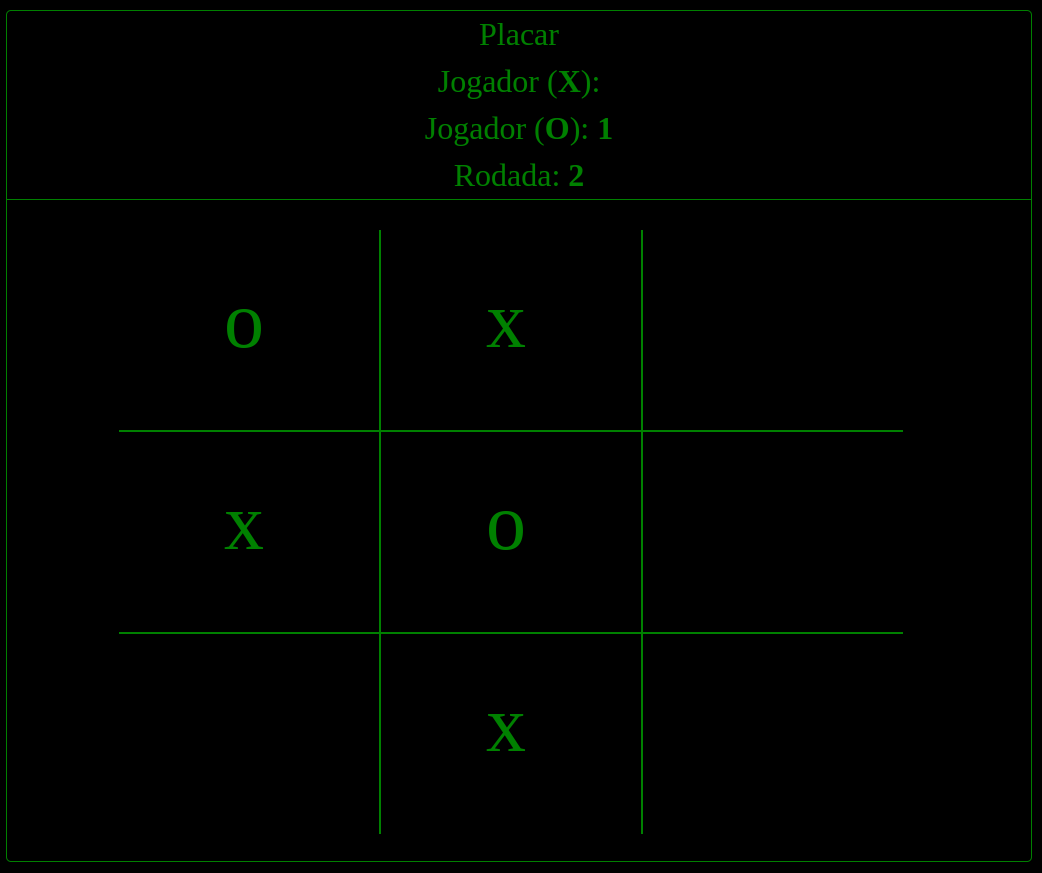
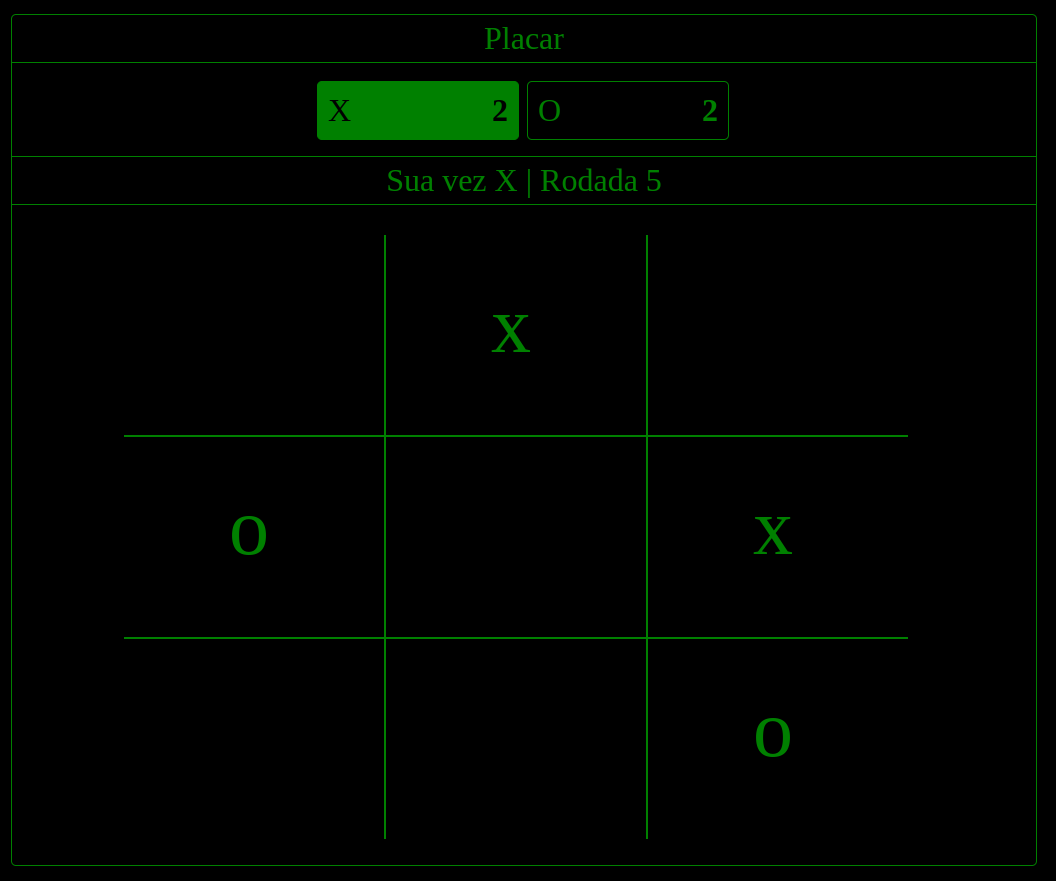
Layout and game improvements.

diff --git a/src/js/jogo-da-velha-tela.js b/src/js/jogo-da-velha-tela.js
@@ -1,25 +1,29 @@
 (function () {
   const jogoDaVelha = new JogoDaVelha();
-  const jogada = document.querySelectorAll('[id*=jogada-]');
-  const jogador = document.querySelectorAll('[id*=jogador-]');
-  const rodada = document.querySelector('[id=rodada]');
-  rodada.textContent = jogoDaVelha.obterRodada();
+  const jogada = document.querySelectorAll("[id*=jogada-]");
+  const jogador = document.querySelectorAll("[id*=jogador-]");
+  const rodada = document.querySelector("[id=rodada]");
+  const jogando = document.querySelector("[id=jogando");
+  const placar = document.querySelectorAll("[id*=placar-]");
+
+  atualizarRodada();
+  atualizarProximoJogador();
 
   jogada.forEach((el, i) => {
-    el.addEventListener('click', () => {
+    el.addEventListener("click", () => {
       const jogo = jogoDaVelha.obterJogo();
       if (!jogo[i]) {
         jogoDaVelha.jogar(i);
-        const sn = document.createElement('span');
+        const sn = document.createElement("span");
         sn.textContent = jogoDaVelha.obterJogador().jogador;
         el.appendChild(sn);
       }
 
       if (jogoDaVelha.haVencedor()) {
         const vencedor = jogoDaVelha.obterVencedor();
-        if (vencedor.jogador == 'x') {
+        if (vencedor.jogador == "x") {
           jogador[0].textContent = vencedor.pontuacao;
-        } else if (vencedor.jogador == 'o') {
+        } else if (vencedor.jogador == "o") {
           jogador[1].textContent = vencedor.pontuacao;
         }
         reiniciarJogo();
@@ -29,16 +33,34 @@
           reiniciarJogo();
         }
       }
+
+      atualizarProximoJogador();
     });
   });
 
   function reiniciarJogo() {
     jogoDaVelha.reiniciarJogo();
-    rodada.textContent = jogoDaVelha.obterRodada();
     jogada.forEach((el, i) => {
       if (el.firstElementChild) {
         el.removeChild(el.firstElementChild);
       }
     });
+    atualizarRodada();
+  }
+
+  function atualizarRodada() {
+    rodada.textContent = jogoDaVelha.obterRodada();
+  }
+
+  function atualizarProximoJogador() {
+    let jogada = jogoDaVelha.obterProximoJogador().jogador;
+    if (jogada == "x") {
+      placar[1].classList.remove("next-player");
+      placar[0].classList.add("next-player");
+    } else {
+      placar[0].classList.remove("next-player");
+      placar[1].classList.add("next-player");
+    }
+    jogando.innerText = jogada.toUpperCase();
   }
 })();

diff --git a/src/index.html b/src/index.html
@@ -10,17 +10,19 @@
 <body>
   <div class="game">
     <div class="game-scoreboard">
-      <div class="game-scoreboard-player">Placar</div>
-      <div>
-        <div class="game-scoreboard-player">
-          Jogador (<b>X</b>): <span id="jogador-um"></span>
+      <div class="game-scoreboard-title">Placar</div>
+      <div class="game-scoreboard-box">
+        <div class="game-scoreboard-player" id="placar-um">
+          <div class="player-left">X</div>
+          <div class="player-right"><span id="jogador-um">-</span></div>
         </div>
-        <div class="game-scoreboard-player ">
-          Jogador (<b>O</b>): <span id="jogador-dois"></span>
+        <div class="game-scoreboard-player" id="placar-dois">
+          <div class="player-left">O</div>
+          <div class="player-right"><span id="jogador-dois">-</span></div>
         </div>
-        <div class="game-scoreboard-player ">
-          Rodada: <span id="rodada"></span>
-        </div>
+      </div>
+      <div class="game-scoreboard-round">
+        Sua vez <span id="jogando"></span> | Rodada <span id="rodada"></span>
       </div>
     </div>
     <div class="game-player">

diff --git a/src/css/jogo-da-velha.css b/src/css/jogo-da-velha.css
@@ -70,11 +70,53 @@ body {
   margin-bottom: 30px;
 }
 
+.game-scoreboard-box {
+  margin-left: 305px;
+}
+
 .game-scoreboard-player {
-  padding: 5px;
+  width: 200px;
+  border: 1px solid green;
+  margin-left: auto;
+  margin-right: auto;
+  display: inline-block;
   text-align: center;
+  border-radius: 5px;
+}
+
+.player-left, .player-right {
+  padding: 10px;
+}
+
+.player-left {
+  float: left;
+}
+
+.player-right {
+  float: right;
 }
 
 .game-scoreboard-player span {
   font-weight: bold;
+}
+
+.game-scoreboard-round, .game-scoreboard-title {
+  text-align: center;
+  padding-top: 5px;
+  padding-bottom: 5px;
+}
+
+.game-scoreboard-title {
+  border-bottom: 1px solid;
+  margin-bottom: 18px;
+}
+
+.game-scoreboard-round {
+  border-top: 1px solid green;
+  margin-top: 8px;
+}
+
+.next-player {
+  background-color: green;
+  color: #000;
 }

diff --git a/src/js/jogo-da-velha.js b/src/js/jogo-da-velha.js
@@ -1,11 +1,11 @@
 function JogoDaVelha() {
   const jogador = {
     um: {
-      jogador: 'x',
+      jogador: "x",
       pontuacao: 0,
     },
     dois: {
-      jogador: 'o',
+      jogador: "o",
       pontuacao: 0,
     },
   };
@@ -83,5 +83,15 @@ function JogoDaVelha() {
     return vencedor ? true : false;
   };
 
+  this.obterProximoJogador = function () {
+    let proximo = this.obterJogador();
+    let jogada = proximo
+      ? proximo.jogador == "x"
+        ? jogador.dois
+        : jogador.um
+      : jogador.um;
+    return jogada;
+  };
+
   return this;
-};
+}

diff --git a/README.md b/README.md
@@ -13,6 +13,7 @@ O "jogo da velha" acontece em um tabuleiro na forma de uma grade 3×3; de 9 de c
 const jogo = new JogoDaVelha();
 jogo.jogar(0);
 console.log('jogador', jogo.obterJogador());
+console.log('proximo jogador', jogo.obterProximoJogador());
 // jogada
 jogo.jogar(3);
 console.log('jogador', jogo.obterJogador());
